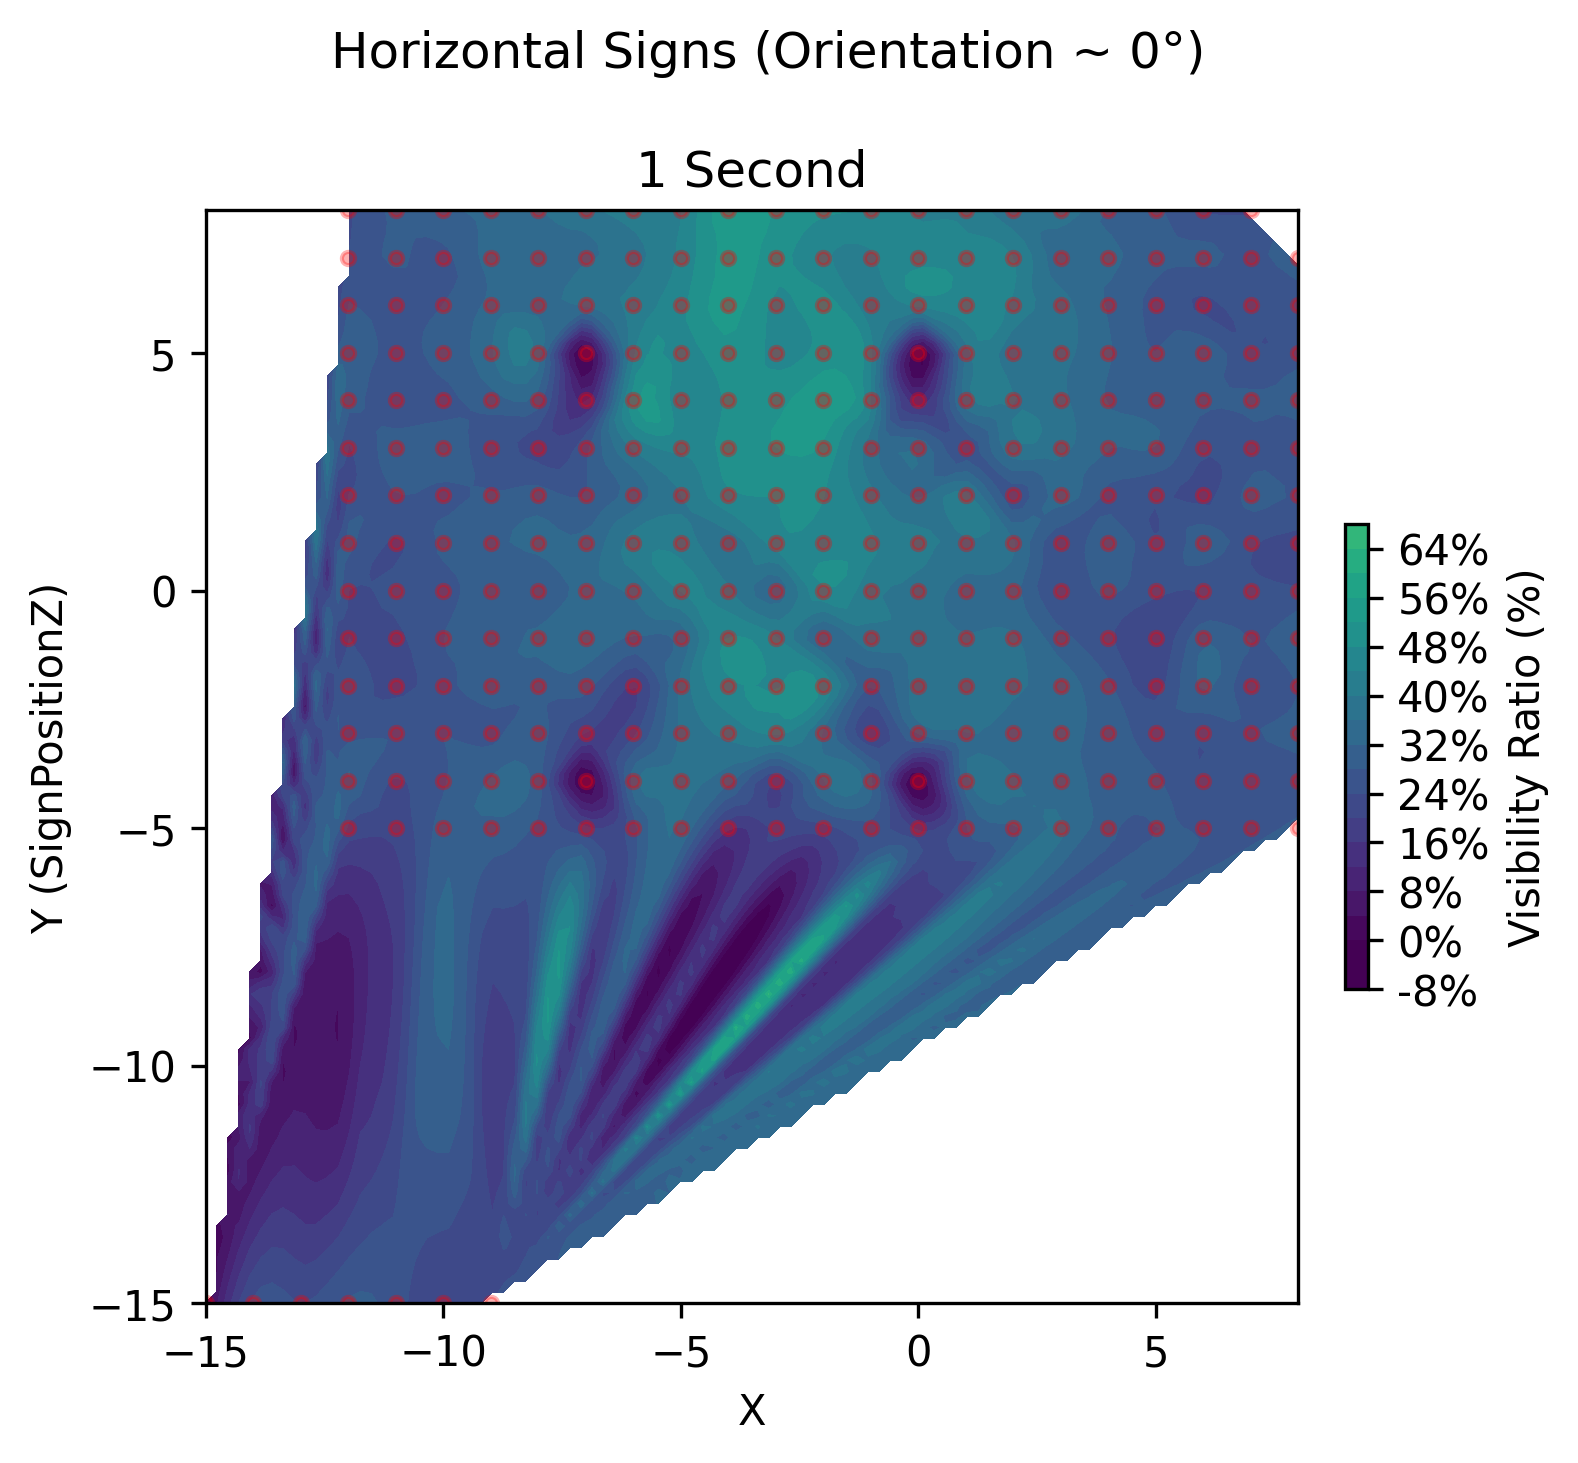
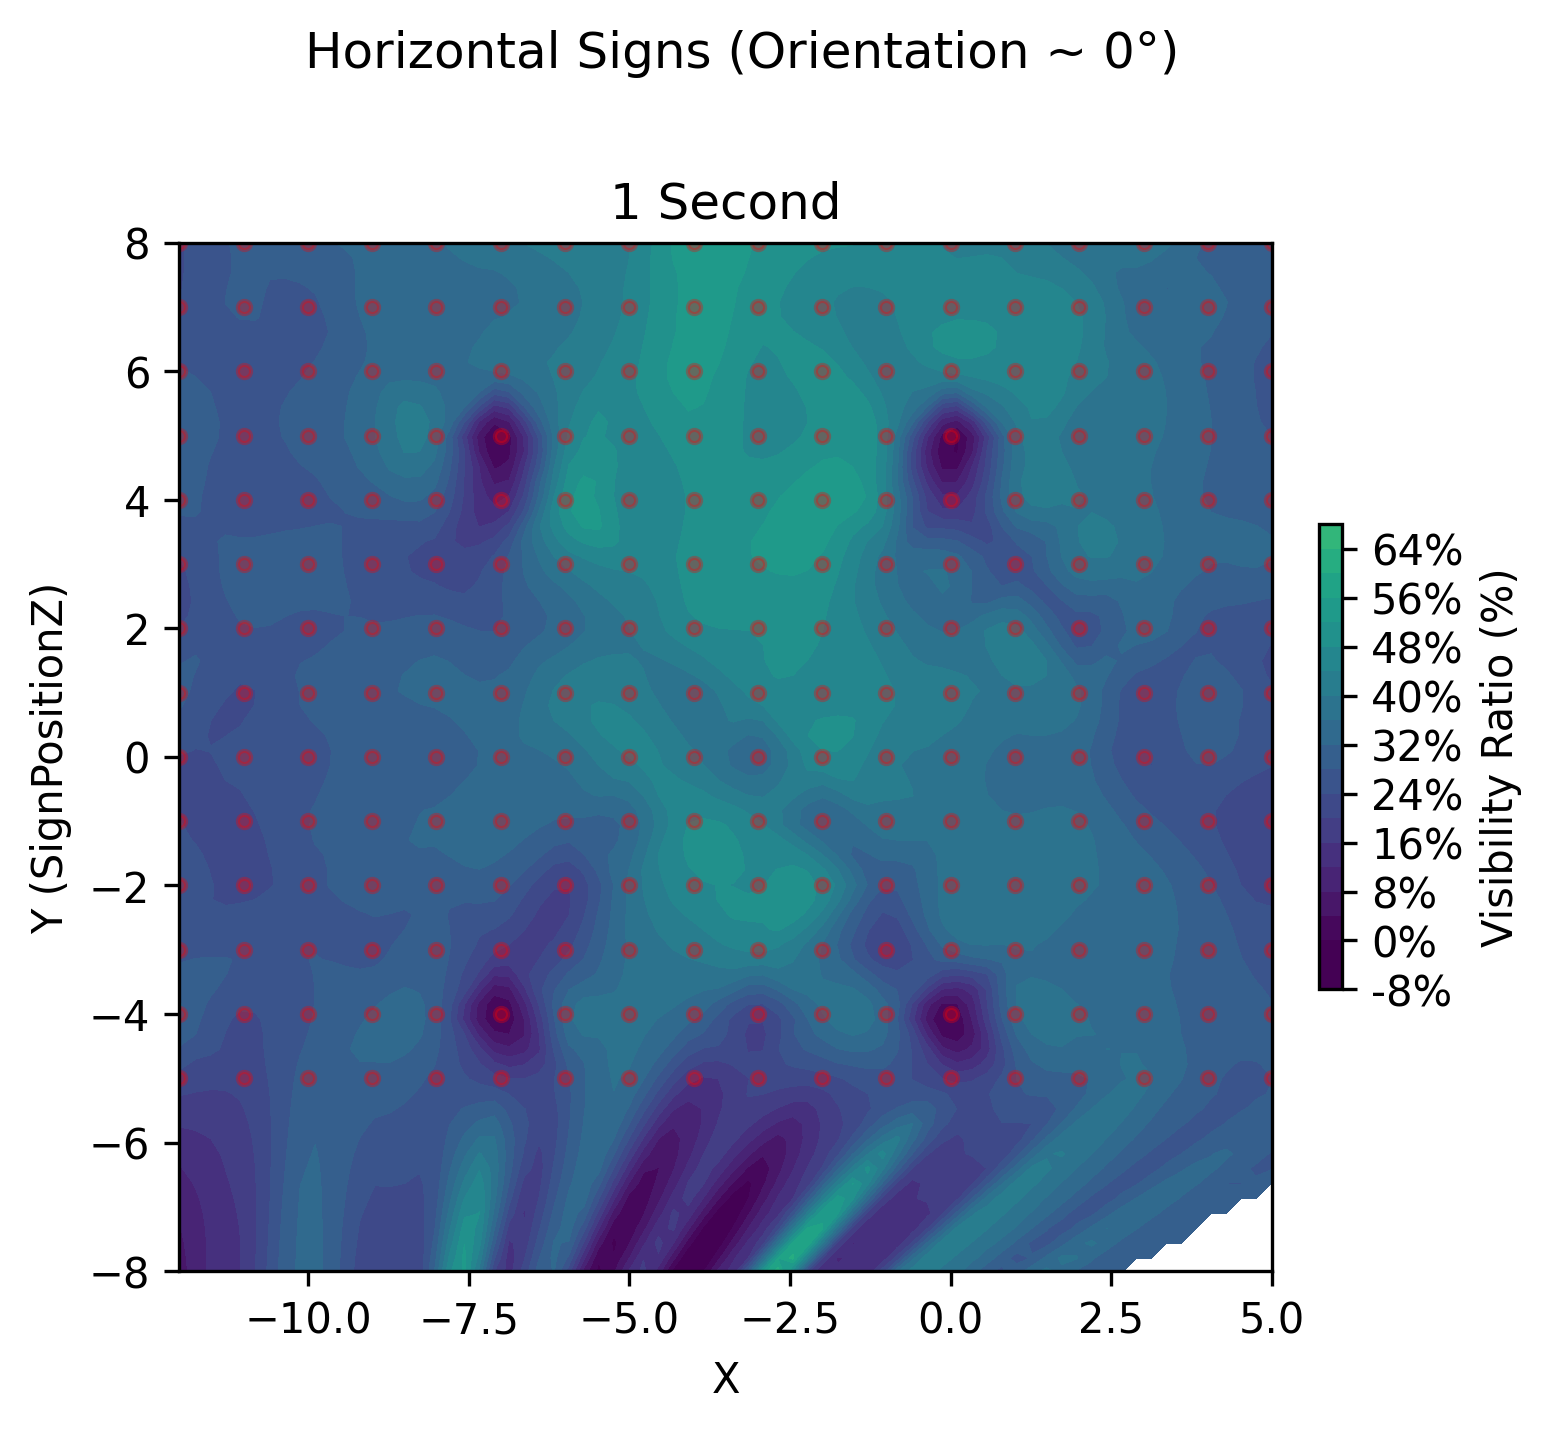
Heatmap params tweaked

diff --git a/Data_analysis/plot_heatmaps.py b/Data_analysis/plot_heatmaps.py
@@ -99,6 +99,10 @@ def plot_heatmaps(df_subset, title_prefix, filename_prefix):
         ax.set_xlabel('X')
         if i == 0:
             ax.set_ylabel('Y (SignPositionZ)')
+            
+        # Hardcode the specific axis limits requested by the user
+        ax.set_xlim(-12, 5)
+        ax.set_ylim(-8, 8)
         ax.set_aspect('equal')
 
     # Add a global colorbar
